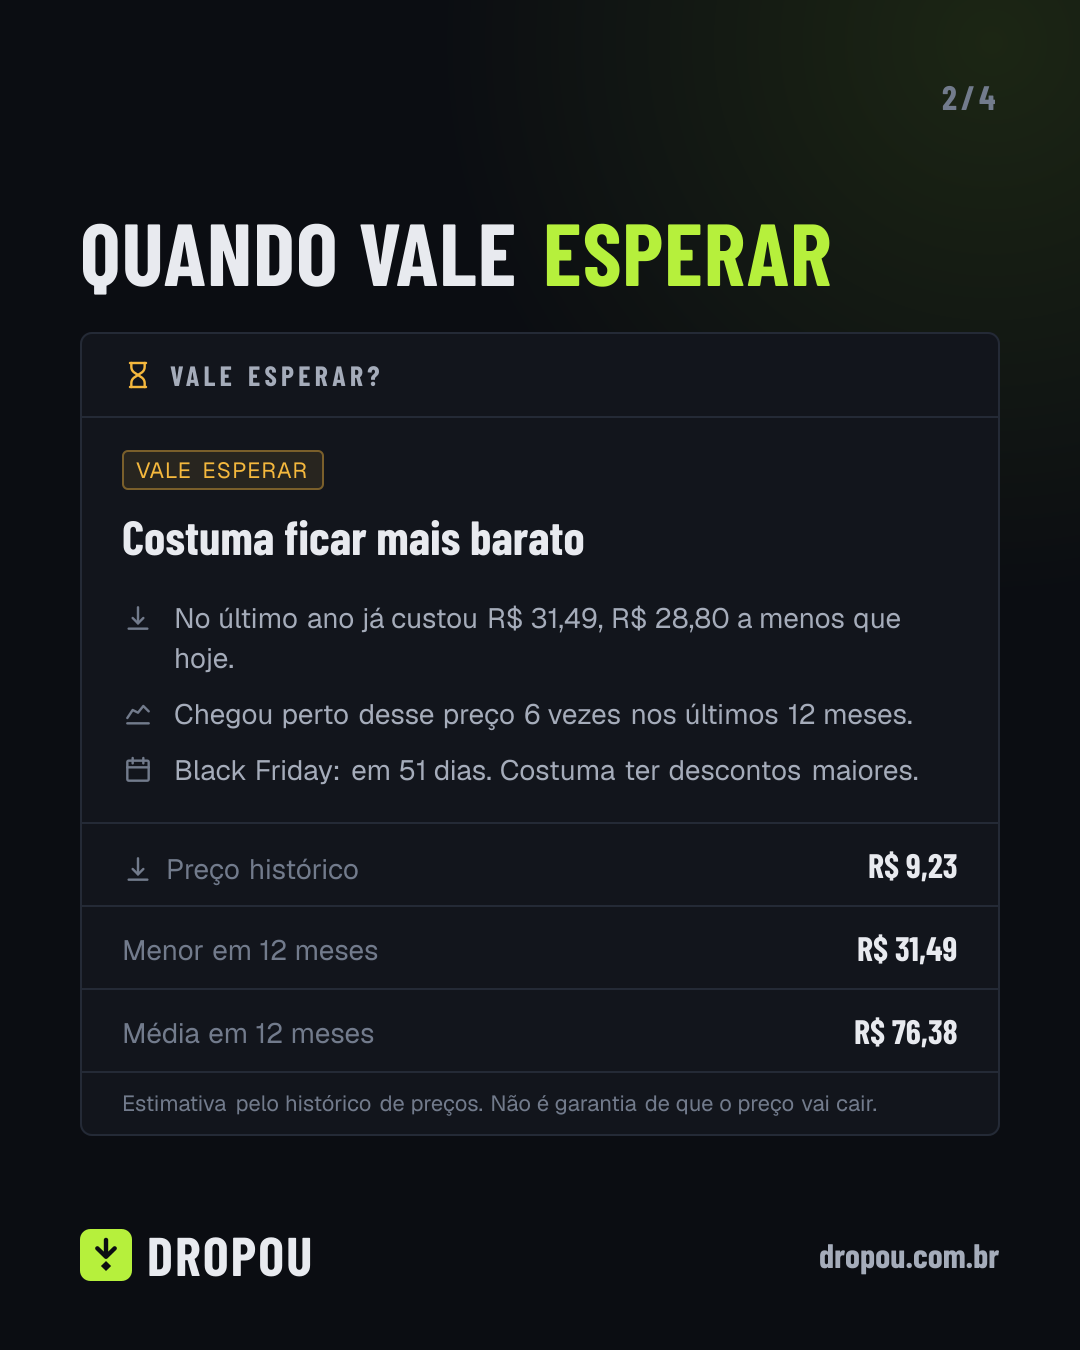
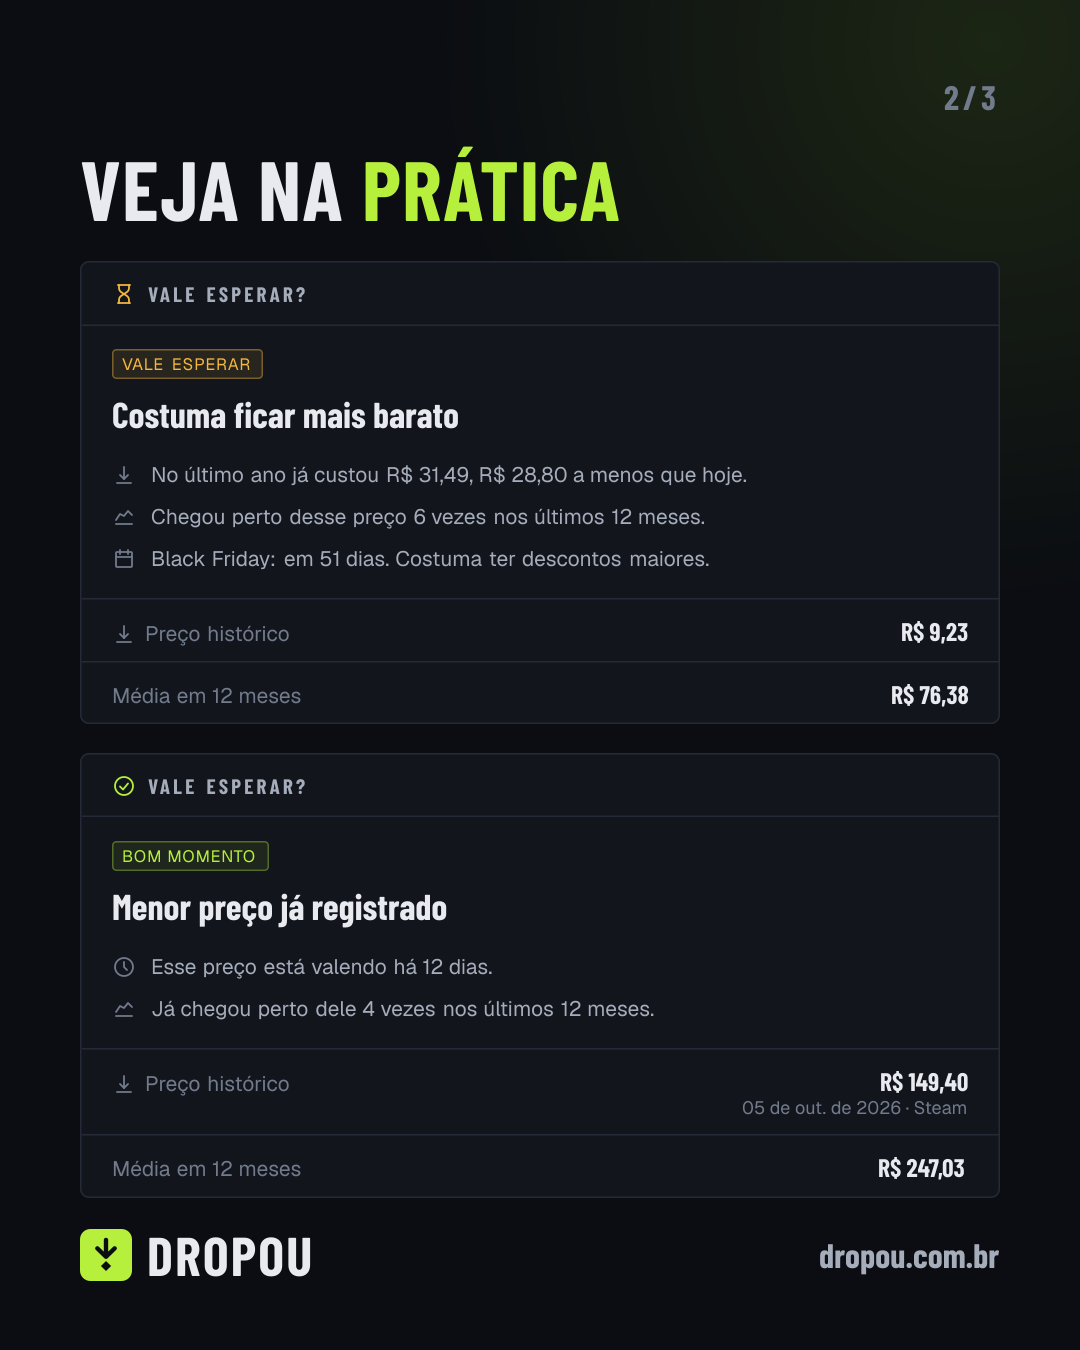
Media kit: carrossel do Vale esperar? com 3 slides e nova chamada

diff --git a/scripts/instagram-vale-esperar.tsx b/scripts/instagram-vale-esperar.tsx
@@ -18,7 +18,7 @@ const C = { bg: "#0b0d12", surface: "#12151c", line: "#242a36", text: "#e8eaef",
 const W = 1080;
 const H = 1350;
 const OUT = "media-kit/instagram-vale-esperar";
-const TOTAL = 4;
+const TOTAL = 3;
 
 // jogos de exemplo: um em que vale esperar e um em que é bom comprar (os vereditos vêm do banco, na hora)
 const WAIT_SLUG = "age-of-empires-ii-definitive-edition";
@@ -136,18 +136,18 @@ function notesOf(v: Verdict): { icon: keyof typeof ICONS; text: string }[] {
  * Todas as medidas são as do site (em px) multiplicadas por S, para o cartão ficar legível no celular.
  */
 const S = 2.0;
-const px = (n: number) => n * S;
 const SANS = "Geist";
 
-function VerdictCard({ ex }: { ex: Example }) {
+function VerdictCard({ ex, s = S, compact = false }: { ex: Example; s?: number; compact?: boolean }) {
   const v = ex.verdict;
   const wait = v.kind === "wait";
   const tone = wait ? C.warn : C.accent;
   const rows: { label: string; value: string; hint?: string; icon?: keyof typeof ICONS }[] = [];
   if (ex.historic) rows.push({ label: "Preço histórico", value: formatCents(ex.historic.cents), hint: [ex.historic.when, ex.historic.store].filter(Boolean).join(" · "), icon: "floor" });
-  if (!ex.historic || ex.historic.cents !== v.lowCents) rows.push({ label: "Menor em 12 meses", value: formatCents(v.lowCents) });
+  if (!compact && (!ex.historic || ex.historic.cents !== v.lowCents)) rows.push({ label: "Menor em 12 meses", value: formatCents(v.lowCents) });
   rows.push({ label: "Média em 12 meses", value: formatCents(v.avgCents) });
   const notes = notesOf(v);
+  const px = (n: number) => n * s;
 
   return (
     <div style={{ display: "flex", flexDirection: "column", width: 920, border: `${px(1)}px solid ${C.line}`, borderRadius: px(6), background: C.surface, overflow: "hidden" }}>
@@ -189,9 +189,11 @@ function VerdictCard({ ex }: { ex: Example }) {
           </div>
         </div>
       ))}
-      <div style={{ display: "flex", padding: `${px(8)}px ${px(20)}px`, borderTop: `${px(1)}px solid ${C.line}`, fontFamily: SANS, fontSize: px(11), color: C.muted }}>
-        Estimativa pelo histórico de preços. Não é garantia de que o preço vai cair.
-      </div>
+      {!compact && (
+        <div style={{ display: "flex", padding: `${px(8)}px ${px(20)}px`, borderTop: `${px(1)}px solid ${C.line}`, fontFamily: SANS, fontSize: px(11), color: C.muted }}>
+          Estimativa pelo histórico de preços. Não é garantia de que o preço vai cair.
+        </div>
+      )}
     </div>
   );
 }
@@ -199,42 +201,48 @@ function VerdictCard({ ex }: { ex: Example }) {
 const buildSlides = (wait: Example, buy: Example): ReactNode[] => [
   <Frame key="1" n={1} footer={false}>
     <Lockup size={130} />
-    <div style={{ display: "flex", marginTop: 40, alignSelf: "flex-start", fontSize: 36, letterSpacing: 5, textTransform: "uppercase", color: C.ink, background: C.accent, borderRadius: 8, padding: "4px 18px" }}>Novidade</div>
+    <div style={{ display: "flex", marginTop: 40, alignSelf: "flex-start", fontSize: 36, letterSpacing: 5, textTransform: "uppercase", color: C.ink, background: C.accent, borderRadius: 8, padding: "4px 18px" }}>Nova funcionalidade</div>
     <div style={{ display: "flex", marginTop: 34 }}>
       <Big size={150} lines={[["Vale esperar"], ["ou comprar", true], ["agora?"]]} />
     </div>
     <Sub>O Dropou agora responde isso pra você.</Sub>
     <div style={{ display: "flex", marginTop: 70, alignItems: "center", gap: 18, fontSize: 40, color: C.accent, letterSpacing: 3, textTransform: "uppercase" }}>
-      Arrasta pro lado <span style={{ fontSize: 54 }}>→</span>
+      Arrasta pro lado pra entender <span style={{ fontSize: 54 }}>→</span>
     </div>
   </Frame>,
 
   <Frame key="2" n={2}>
-    <Head before="Quando vale" lime="esperar" />
-    <div style={{ display: "flex", marginTop: 40 }}>
-      <VerdictCard ex={wait} />
+    <Head before="Veja na" lime="prática" size={84} />
+    <div style={{ display: "flex", flexDirection: "column", gap: 28, marginTop: 34 }}>
+      <VerdictCard ex={wait} s={1.5} compact />
+      <VerdictCard ex={buy} s={1.5} compact />
     </div>
   </Frame>,
 
-  <Frame key="3" n={3}>
-    <Head before="Quando é bom" lime="comprar" />
-    <div style={{ display: "flex", marginTop: 40 }}>
-      <VerdictCard ex={buy} />
-    </div>
-  </Frame>,
-
-  <Frame key="4" n={4} footer={false}>
+  <Frame key="3" n={3} footer={false}>
     <Lockup size={110} />
     <div style={{ display: "flex", marginTop: 64 }}>
-      <Big size={130} lines={[["Teste no seu"], ["próximo jogo", true]]} />
+      <Big size={130} lines={[["Descubra agora"], ["se vale esperar", true]]} />
     </div>
-    <Sub size={44}>Grátis, sem cadastro, e muda conforme as plataformas que você marcar.</Sub>
+    <Sub size={44}>Entra no site, abre o seu próximo jogo e testa a nova funcionalidade. É grátis e sem cadastro.</Sub>
     <div style={{ display: "flex", alignItems: "center", gap: 20, marginTop: 70 }}>
       <div style={{ display: "flex", fontSize: 70, background: C.accent, color: C.ink, borderRadius: 14, padding: "10px 34px", letterSpacing: 1 }}>{BRAND.domain}</div>
       <div style={{ display: "flex", fontSize: 32, letterSpacing: 3, textTransform: "uppercase", border: `2px solid ${C.accent}`, color: C.accent, borderRadius: 10, padding: "4px 16px" }}>beta</div>
     </div>
   </Frame>,
 ];
+
+/** No Windows o arquivo pode ficar preso por um instante (antivírus, visualizador): tenta de novo. */
+async function save(path: string, data: Buffer) {
+  for (let attempt = 1; ; attempt++) {
+    try {
+      return await writeFile(path, data);
+    } catch (err) {
+      if (attempt >= 6) throw err;
+      await new Promise((r) => setTimeout(r, 500 * attempt));
+    }
+  }
+}
 
 async function main() {
   const [wait, buy] = await Promise.all([load(WAIT_SLUG), load(BUY_SLUG)]);
@@ -252,7 +260,7 @@ async function main() {
         { name: "Geist", data: geist, weight: 400, style: "normal" },
       ],
     });
-    await writeFile(`${OUT}/slide-${i + 1}.png`, Buffer.from(await res.arrayBuffer()));
+    await save(`${OUT}/slide-${i + 1}.png`, Buffer.from(await res.arrayBuffer()));
     console.log("✓ slide", i + 1);
   }
   process.exit(0);

diff --git a/media-kit/instagram-vale-esperar/legenda.md b/media-kit/instagram-vale-esperar/legenda.md
@@ -1,12 +1,12 @@
 # Post do Instagram: novidade "Vale esperar?" (@dropou.br)
 
-Carrossel de 4 slides (1080×1350, 4:5): `slide-1.png` a `slide-4.png`. Para gerar de novo: `DOTENV_CONFIG_PATH=.env.turso npx tsx scripts/instagram-vale-esperar.tsx` (os cartões dos slides 2 e 3 são réplicas do cartão do site, com preços reais do banco; os jogos de exemplo ficam no topo do script).
+Carrossel de 3 slides (1080×1350, 4:5): `slide-1.png` a `slide-3.png`. Para gerar de novo: `DOTENV_CONFIG_PATH=.env.turso npx tsx scripts/instagram-vale-esperar.tsx` (o slide 2 traz duas réplicas do cartão do site, com preços reais do banco; os jogos de exemplo ficam no topo do script).
 
 Os números dos slides são de 7/10/2026. Se o post demorar para sair, gere de novo para atualizar preços e a contagem de dias até a Black Friday.
 
 ## Legenda
 
-Novidade no Dropou: agora ele diz se vale esperar ou comprar agora 👀
+Nova funcionalidade no Dropou: agora ele diz se vale esperar ou comprar agora 👀
 
 Em cada jogo, o site olha o histórico de preços dos últimos 12 meses e mostra:
 ⏳ quando costuma ficar mais barato
@@ -15,7 +15,7 @@ Em cada jogo, o site olha o histórico de preços dos últimos 12 meses e mostra
 
 E muda conforme as plataformas que você marcar 🎮
 
-É uma estimativa pelo histórico, não uma garantia. Testa com o seu próximo jogo e me conta o que achou 💚
+É uma estimativa pelo histórico, não uma garantia. Entra no site, abre o seu próximo jogo e testa a nova funcionalidade. Me conta o que achou 💚
 
 Link na bio → dropou.com.br
 
